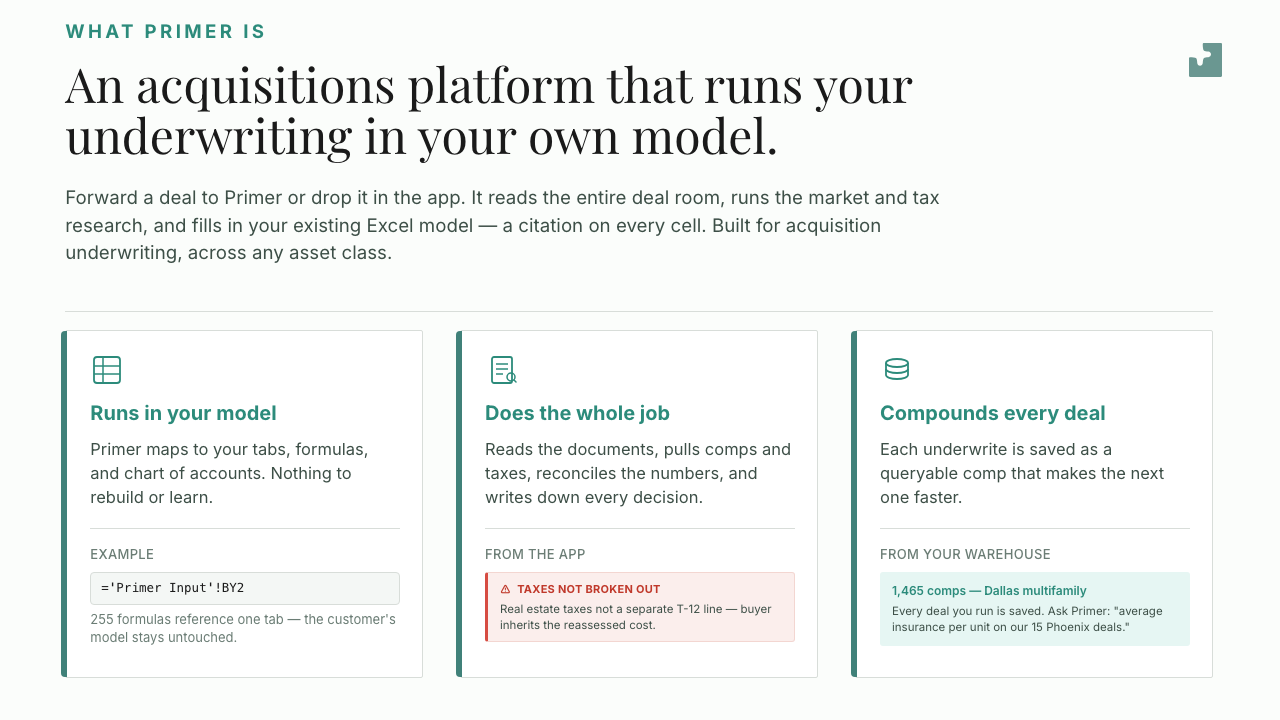
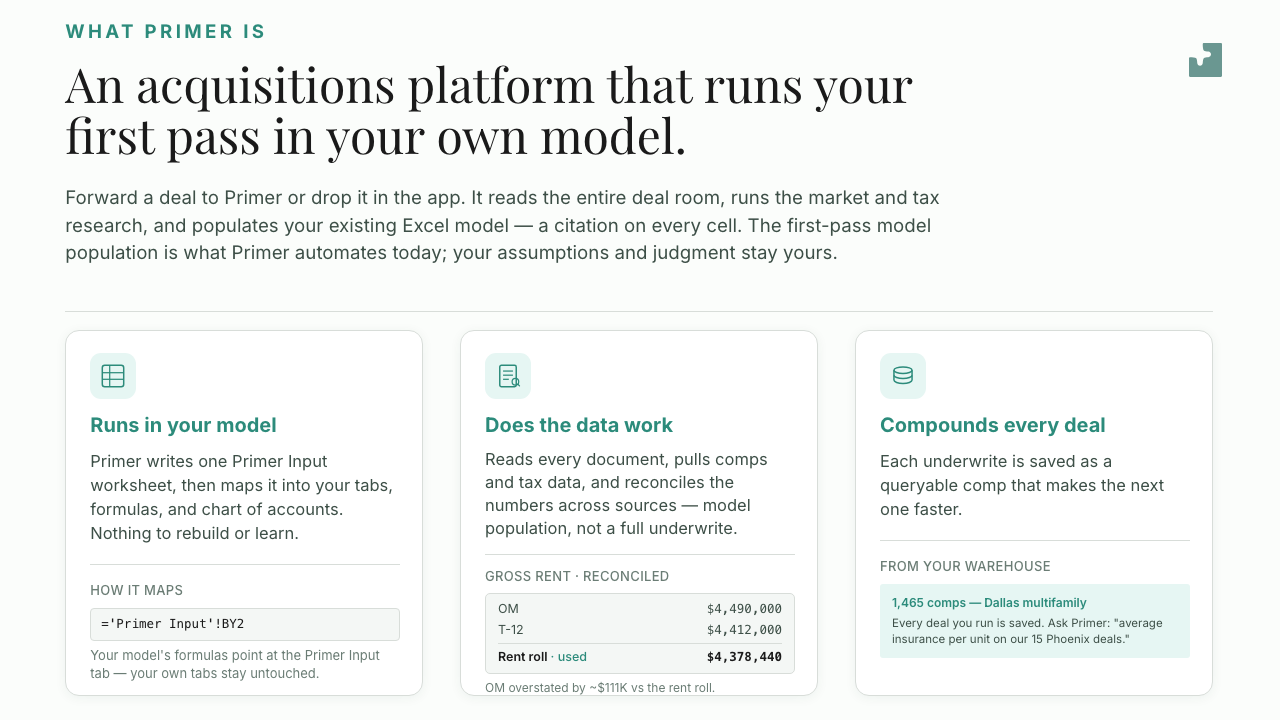
Tighten copy + clean up A1, B1, B3
A1 — scope it as the first pass, not a full underwrite. Headline now "runs your
first pass in your own model"; the sub says Primer automates the first-pass model
population and your judgment stays yours. Cards lose the green left stripe for a
cleaner container with a teal icon tile. Card 1 drops the hard-coded "255
formulas" and reframes around the Primer Input worksheet that maps to your tabs.
Card 2 ("Does the data work") swaps the single anomaly flag for a reconciliation
example (OM vs T-12 vs rent roll) — the data work buyers actually care about.

B1 — Primer is now an elevated white hub, not just another boxed node; removed
the teal nub. Dropped the "never the broker number" pill, changed "Emits" to
"Produces", refreshed the verbs, and redrew the arrows so they run cleanly from
the input cards into Primer and out to the two outputs.

B3 — equal-height input cards, removed the janky gray connector lines (the
numbered bubbles on the spine carry the 1-2-3 flow), and fixed the cited-input-
sheet table that was clipping at the band edge. Added a "reading agent that works
across the whole deal room" framing so Primer reads as cross-document
intelligence. Kept the "never the broker number" key principle.

diff --git a/A1-statement-pillars.html b/A1-statement-pillars.html
@@ -19,72 +19,77 @@
   <div class="b left-[65.3px] top-[18.2px] eyebrow text-[18.7px] tr-179">WHAT PRIMER IS</div>
 
   <!-- Headline -->
-  <h2 class="b left-[65.3px] top-[58px] w-[980px] title text-[48px]">An acquisitions platform that runs your<br>underwriting in your own model.</h2>
+  <h2 class="b left-[65.3px] top-[58px] w-[980px] title text-[48px]">An acquisitions platform that runs your<br>first pass in your own model.</h2>
 
   <!-- Sub -->
-  <p class="b left-[65.3px] top-[184px] w-[900px] text-body text-[18.7px] leading-[1.48]">Forward a deal to Primer or drop it in the app. It reads the entire deal room, runs the market and tax research, and fills in your existing Excel model — a citation on every cell. Built for acquisition underwriting, across any asset class.</p>
+  <p class="b left-[65.3px] top-[184px] w-[940px] text-body text-[18.7px] leading-[1.48]">Forward a deal to Primer or drop it in the app. It reads the entire deal room, runs the market and tax research, and populates your existing Excel model — a citation on every cell. The first-pass model population is what Primer automates today; your assumptions and judgment stay yours.</p>
 
   <!-- Thin rule before pillars -->
   <div class="b left-[65.3px] top-[311px] w-[1148px] h-px bg-line"></div>
 
   <!-- Pillar cards row — 3 equal-width, teal nub motif, line icons -->
   <!-- Card 1: Runs in your model -->
-  <div class="b left-[65.3px] top-[330px] w-[358px] h-[348px] bg-white border border-line rounded-[2px]">
-    <span class="absolute left-[-5.4px] top-0 h-full w-[6.4px] bg-tealbar rounded-l"></span>
+  <div class="b left-[65.3px] top-[330px] w-[358px] h-[366px] bg-white border border-line rounded-[14px] shadow-[0_2px_12px_rgba(25,60,51,0.06)]">
     <div class="pl-[24px] pr-[22px] pt-[22px]">
-      <!-- Icon: spreadsheet/grid -->
-      <svg width="34" height="34" viewBox="0 0 34 34" fill="none" xmlns="http://www.w3.org/2000/svg">
-        <rect x="4" y="4" width="26" height="26" rx="3" stroke="#2C8B7B" stroke-width="1.8"/>
-        <line x1="4" y1="13" x2="30" y2="13" stroke="#2C8B7B" stroke-width="1.5"/>
-        <line x1="4" y1="21" x2="30" y2="21" stroke="#2C8B7B" stroke-width="1.5"/>
-        <line x1="13" y1="4" x2="13" y2="30" stroke="#2C8B7B" stroke-width="1.5"/>
-      </svg>
+      <!-- Icon tile: spreadsheet/grid -->
+      <div class="w-[46px] h-[46px] rounded-[11px] bg-tint flex items-center justify-center">
+        <svg width="28" height="28" viewBox="0 0 34 34" fill="none" xmlns="http://www.w3.org/2000/svg">
+          <rect x="4" y="4" width="26" height="26" rx="3" stroke="#2C8B7B" stroke-width="1.8"/>
+          <line x1="4" y1="13" x2="30" y2="13" stroke="#2C8B7B" stroke-width="1.5"/>
+          <line x1="4" y1="21" x2="30" y2="21" stroke="#2C8B7B" stroke-width="1.5"/>
+          <line x1="13" y1="4" x2="13" y2="30" stroke="#2C8B7B" stroke-width="1.5"/>
+        </svg>
+      </div>
       <div class="mt-[14px] text-[20px] font-bold text-teal leading-tight">Runs in your model</div>
-      <p class="mt-[12px] text-[16.5px] text-body leading-[1.45]">Primer maps to your tabs, formulas, and chart of accounts. Nothing to rebuild or learn.</p>
+      <p class="mt-[12px] text-[16.5px] text-body leading-[1.45]">Primer writes one Primer Input worksheet, then maps it into your tabs, formulas, and chart of accounts. Nothing to rebuild or learn.</p>
       <!-- Proof detail -->
       <div class="mt-[18px] pt-[16px] border-t border-line">
-        <div class="text-[13px] text-muted font-medium mb-[8px] uppercase tracking-wide">Example</div>
+        <div class="text-[13px] text-muted font-medium mb-[8px] uppercase tracking-wide">How it maps</div>
         <div class="text-[12.5px] font-mono bg-[#F4F7F5] text-ink border border-line px-2.5 py-1.5 rounded mb-[6px]">='Primer Input'!BY2</div>
-        <div class="text-[13px] text-muted leading-snug">255 formulas reference one tab — the customer's model stays untouched.</div>
+        <div class="text-[13px] text-muted leading-snug">Your model's formulas point at the Primer Input tab — your own tabs stay untouched.</div>
       </div>
     </div>
   </div>
 
-  <!-- Card 2: Does the whole job -->
-  <div class="b left-[460px] top-[330px] w-[358px] h-[348px] bg-white border border-line rounded-[2px]">
-    <span class="absolute left-[-5.4px] top-0 h-full w-[6.4px] bg-tealbar rounded-l"></span>
+  <!-- Card 2: Does the data work -->
+  <div class="b left-[460px] top-[330px] w-[358px] h-[366px] bg-white border border-line rounded-[14px] shadow-[0_2px_12px_rgba(25,60,51,0.06)]">
     <div class="pl-[24px] pr-[22px] pt-[22px]">
-      <!-- Icon: document stack / reading -->
-      <svg width="34" height="34" viewBox="0 0 34 34" fill="none" xmlns="http://www.w3.org/2000/svg">
-        <rect x="7" y="4" width="20" height="26" rx="2" stroke="#2C8B7B" stroke-width="1.8"/>
-        <line x1="11" y1="11" x2="23" y2="11" stroke="#2C8B7B" stroke-width="1.5"/>
-        <line x1="11" y1="16" x2="23" y2="16" stroke="#2C8B7B" stroke-width="1.5"/>
-        <line x1="11" y1="21" x2="18" y2="21" stroke="#2C8B7B" stroke-width="1.5"/>
-        <circle cx="26" cy="24" r="4" stroke="#2C8B7B" stroke-width="1.5"/>
-        <line x1="29" y1="27" x2="31" y2="29" stroke="#2C8B7B" stroke-width="1.5" stroke-linecap="round"/>
-      </svg>
-      <div class="mt-[14px] text-[20px] font-bold text-teal leading-tight">Does the whole job</div>
-      <p class="mt-[12px] text-[16.5px] text-body leading-[1.45]">Reads the documents, pulls comps and taxes, reconciles the numbers, and writes down every decision.</p>
-      <div class="mt-[18px] pt-[16px] border-t border-line">
-        <div class="text-[13px] text-muted font-medium mb-[8px] uppercase tracking-wide">From the app</div>
-        <div class="bg-riskbg border border-[#F3D6D1] border-l-[3px] border-l-riskline rounded-[3px] px-3 py-2">
-          <div class="flex items-center gap-1.5 text-risk font-bold text-[11px] tracking-wide"><span>⚠</span>TAXES NOT BROKEN OUT</div>
-          <p class="mt-1 text-[11.5px] text-body leading-snug">Real estate taxes not a separate T-12 line — buyer inherits the reassessed cost.</p>
+      <!-- Icon tile: document stack / reading -->
+      <div class="w-[46px] h-[46px] rounded-[11px] bg-tint flex items-center justify-center">
+        <svg width="28" height="28" viewBox="0 0 34 34" fill="none" xmlns="http://www.w3.org/2000/svg">
+          <rect x="7" y="4" width="20" height="26" rx="2" stroke="#2C8B7B" stroke-width="1.8"/>
+          <line x1="11" y1="11" x2="23" y2="11" stroke="#2C8B7B" stroke-width="1.5"/>
+          <line x1="11" y1="16" x2="23" y2="16" stroke="#2C8B7B" stroke-width="1.5"/>
+          <line x1="11" y1="21" x2="18" y2="21" stroke="#2C8B7B" stroke-width="1.5"/>
+          <circle cx="26" cy="24" r="4" stroke="#2C8B7B" stroke-width="1.5"/>
+          <line x1="29" y1="27" x2="31" y2="29" stroke="#2C8B7B" stroke-width="1.5" stroke-linecap="round"/>
+        </svg>
+      </div>
+      <div class="mt-[14px] text-[20px] font-bold text-teal leading-tight">Does the data work</div>
+      <p class="mt-[10px] text-[16.5px] text-body leading-[1.4]">Reads every document, pulls comps and tax data, and reconciles the numbers across sources — model population, not a full underwrite.</p>
+      <div class="mt-[14px] pt-[12px] border-t border-line">
+        <div class="text-[13px] text-muted font-medium mb-[6px] uppercase tracking-wide">Gross rent · reconciled</div>
+        <div class="bg-[#F4F7F5] border border-line rounded-[5px] px-3 py-1.5 text-[12.5px]">
+          <div class="flex justify-between text-body"><span>OM</span><span class="font-mono">$4,490,000</span></div>
+          <div class="flex justify-between text-body mt-[2px]"><span>T-12</span><span class="font-mono">$4,412,000</span></div>
+          <div class="flex justify-between items-center text-ink font-semibold mt-[4px] pt-[4px] border-t border-line"><span>Rent roll <span class="text-teal font-medium">· used</span></span><span class="font-mono">$4,378,440</span></div>
         </div>
+        <div class="text-[12px] text-muted leading-snug mt-[6px]">OM overstated by ~$111K vs the rent roll.</div>
       </div>
     </div>
   </div>
 
   <!-- Card 3: Compounds every deal -->
-  <div class="b left-[855px] top-[330px] w-[358px] h-[348px] bg-white border border-line rounded-[2px]">
-    <span class="absolute left-[-5.4px] top-0 h-full w-[6.4px] bg-tealbar rounded-l"></span>
+  <div class="b left-[855px] top-[330px] w-[358px] h-[366px] bg-white border border-line rounded-[14px] shadow-[0_2px_12px_rgba(25,60,51,0.06)]">
     <div class="pl-[24px] pr-[22px] pt-[22px]">
-      <!-- Icon: stacked layers / database -->
-      <svg width="34" height="34" viewBox="0 0 34 34" fill="none" xmlns="http://www.w3.org/2000/svg">
-        <ellipse cx="17" cy="10" rx="11" ry="4" stroke="#2C8B7B" stroke-width="1.8"/>
-        <path d="M6 10v6c0 2.21 4.93 4 11 4s11-1.79 11-4v-6" stroke="#2C8B7B" stroke-width="1.8"/>
-        <path d="M6 16v6c0 2.21 4.93 4 11 4s11-1.79 11-4v-6" stroke="#2C8B7B" stroke-width="1.8"/>
-      </svg>
+      <!-- Icon tile: stacked layers / database -->
+      <div class="w-[46px] h-[46px] rounded-[11px] bg-tint flex items-center justify-center">
+        <svg width="28" height="28" viewBox="0 0 34 34" fill="none" xmlns="http://www.w3.org/2000/svg">
+          <ellipse cx="17" cy="10" rx="11" ry="4" stroke="#2C8B7B" stroke-width="1.8"/>
+          <path d="M6 10v6c0 2.21 4.93 4 11 4s11-1.79 11-4v-6" stroke="#2C8B7B" stroke-width="1.8"/>
+          <path d="M6 16v6c0 2.21 4.93 4 11 4s11-1.79 11-4v-6" stroke="#2C8B7B" stroke-width="1.8"/>
+        </svg>
+      </div>
       <div class="mt-[14px] text-[20px] font-bold text-teal leading-tight">Compounds every deal</div>
       <p class="mt-[12px] text-[16.5px] text-body leading-[1.45]">Each underwrite is saved as a queryable comp that makes the next one faster.</p>
       <div class="mt-[18px] pt-[16px] border-t border-line">

diff --git a/B1-three-column-flow.html b/B1-three-column-flow.html
@@ -39,63 +39,53 @@
     <div class="mt-1 text-[11.5px] text-muted leading-snug">rent &amp; sales comps · tax /<br>assessor records · market data</div>
   </div>
 
-  <!-- ── SVG ARROWS: inputs → primer ──────────────────────────── -->
+  <!-- ── SVG ARROWS: inputs → primer → outputs ────────────────── -->
   <svg class="b left-0 top-0 w-full h-full" style="pointer-events:none" xmlns="http://www.w3.org/2000/svg">
-    <!-- Arrow from Deal documents (right edge ~289px, midY ~249px) to Primer left (~487px, midY ~377px) -->
     <defs>
       <marker id="arrowTeal" markerWidth="9" markerHeight="7" refX="8" refY="3.5" orient="auto">
         <polygon points="0 0, 9 3.5, 0 7" fill="#2C8B7B"/>
       </marker>
-      <marker id="arrowTealLight" markerWidth="9" markerHeight="7" refX="8" refY="3.5" orient="auto">
-        <polygon points="0 0, 9 3.5, 0 7" fill="#2C8B7B" opacity="0.5"/>
-      </marker>
     </defs>
-    <!-- Deal docs → Primer center -->
-    <path d="M 289 249 C 370 249 410 377 487 377" stroke="#2C8B7B" stroke-width="1.8" fill="none" marker-end="url(#arrowTeal)" opacity="0.85"/>
-    <!-- Research agents → Primer center -->
-    <path d="M 289 397 C 370 397 410 377 487 377" stroke="#2C8B7B" stroke-width="1.8" fill="none" marker-end="url(#arrowTeal)" opacity="0.85"/>
-    <!-- Primer → cited input sheet → outputs -->
-    <!-- Primer right edge ~793px → cited input sheet → Output nodes -->
-    <!-- Arrow to Your Excel model (upper right) -->
-    <path d="M 879 377 C 920 377 940 298 970 298" stroke="#2C8B7B" stroke-width="1.8" fill="none" marker-end="url(#arrowTeal)" opacity="0.85"/>
-    <!-- Arrow to Your data warehouse (lower right) -->
-    <path d="M 879 377 C 920 377 940 466 970 466" stroke="#2C8B7B" stroke-width="1.8" fill="none" marker-end="url(#arrowTeal)" opacity="0.85"/>
+    <!-- Deal docs (right edge 289, y≈243) → Primer left-center (468, 310) -->
+    <path d="M 289 243 C 380 243 395 310 466 310" stroke="#2C8B7B" stroke-width="1.8" fill="none" marker-end="url(#arrowTeal)" opacity="0.9"/>
+    <!-- Research agents (right edge 289, y≈394) → Primer left-center (468, 310) -->
+    <path d="M 289 394 C 380 394 395 310 466 310" stroke="#2C8B7B" stroke-width="1.8" fill="none" marker-end="url(#arrowTeal)" opacity="0.9"/>
+    <!-- Primer right-center (812, 310) → Your Excel model (970, 286) -->
+    <path d="M 814 310 C 895 310 905 286 968 286" stroke="#2C8B7B" stroke-width="1.8" fill="none" marker-end="url(#arrowTeal)" opacity="0.9"/>
+    <!-- Primer right-center (812, 310) → Your data warehouse (970, 454) -->
+    <path d="M 814 310 C 895 310 905 454 968 454" stroke="#2C8B7B" stroke-width="1.8" fill="none" marker-end="url(#arrowTeal)" opacity="0.9"/>
   </svg>
 
-  <!-- ── PRIMER NODE (center, large) ──────────────────────────── -->
-  <div class="b left-[487px] top-[220px] w-[306px] bg-white border-2 border-teal rounded-xl shadow-md overflow-hidden">
-    <!-- Teal nub motif -->
-    <span class="absolute left-0 top-0 h-full w-[5px] bg-tealbar rounded-l"></span>
-    <div class="pl-5 pr-4 pt-4 pb-4">
-      <div class="text-[15.5px] font-bold text-teal leading-tight mb-2.5">Primer</div>
-      <div class="space-y-2">
+  <!-- ── PRIMER NODE (center hub — elevated, no nub) ───────────── -->
+  <div class="b left-[468px] top-[210px] w-[344px] bg-white border border-teal/40 rounded-2xl shadow-[0_8px_28px_rgba(25,60,51,0.14)] overflow-hidden" style="height:200px;">
+    <div class="px-5 pt-4 pb-3">
+      <div class="flex items-center gap-2 mb-3">
+        <span class="w-[9px] h-[9px] rounded-full bg-teal flex-shrink-0"></span>
+        <div class="text-[16.5px] font-bold text-teal leading-none">Primer</div>
+      </div>
+      <div class="space-y-[8px]">
         <div class="flex items-start gap-2">
-          <span class="mt-[3px] w-[7px] h-[7px] rounded-full bg-teal flex-shrink-0"></span>
+          <span class="mt-[5px] w-[6px] h-[6px] rounded-full bg-teal flex-shrink-0"></span>
           <div class="text-[12.5px] text-body leading-snug">Reads every document and source</div>
         </div>
         <div class="flex items-start gap-2">
-          <span class="mt-[3px] w-[7px] h-[7px] rounded-full bg-teal flex-shrink-0"></span>
+          <span class="mt-[5px] w-[6px] h-[6px] rounded-full bg-teal flex-shrink-0"></span>
           <div class="text-[12.5px] text-body leading-snug">Reconciles conflicts across sources</div>
         </div>
         <div class="flex items-start gap-2">
-          <span class="mt-[3px] w-[7px] h-[7px] rounded-full bg-teal flex-shrink-0"></span>
-          <div class="text-[12.5px] text-body leading-snug">Validates the numbers and flags anomalies</div>
+          <span class="mt-[5px] w-[6px] h-[6px] rounded-full bg-teal flex-shrink-0"></span>
+          <div class="text-[12.5px] text-body leading-snug">Validates the numbers, flags anomalies</div>
         </div>
         <div class="flex items-start gap-2">
-          <span class="mt-[3px] w-[7px] h-[7px] rounded-full bg-teal flex-shrink-0"></span>
-          <div class="text-[12.5px] text-body leading-snug">Writes a structured, cited input sheet</div>
+          <span class="mt-[5px] w-[6px] h-[6px] rounded-full bg-teal flex-shrink-0"></span>
+          <div class="text-[12.5px] text-body leading-snug">Maps it into your model, cell by cell</div>
         </div>
       </div>
-      <!-- "never the broker number" callout pill -->
-      <div class="mt-3.5 inline-flex items-center gap-1.5 bg-tint border border-teal/30 rounded-full px-3 py-1">
-        <svg width="10" height="10" viewBox="0 0 10 10" fill="none"><circle cx="5" cy="5" r="4.5" stroke="#2C8B7B" stroke-width="1"/><path d="M5 3v2.5" stroke="#2C8B7B" stroke-width="1.2" stroke-linecap="round"/><circle cx="5" cy="7.2" r=".6" fill="#2C8B7B"/></svg>
-        <span class="text-[11px] font-semibold text-teal">never the broker number</span>
-      </div>
     </div>
-    <!-- Cited input sheet label at bottom of Primer -->
-    <div class="border-t border-teal/20 bg-tint px-5 py-2.5">
-      <div class="text-[11px] font-bold text-teal tr-107 uppercase">Emits: cited input sheet</div>
-      <div class="text-[11px] text-muted mt-0.5">every cell traced to source document</div>
+    <!-- Output artifact label -->
+    <div class="border-t border-line bg-tint px-5 py-2.5">
+      <div class="text-[11px] font-bold text-teal tr-107 uppercase">Produces — cited input sheet</div>
+      <div class="text-[10.5px] text-muted mt-0.5">every cell traced to its source document</div>
     </div>
   </div>
 

diff --git a/B3-numbered-flow.html b/B3-numbered-flow.html
@@ -38,7 +38,7 @@
 
   <!-- Two input cards side by side -->
   <!-- Card: Deal documents -->
-  <div class="b left-[152px] top-[196px] w-[272px] bg-white border border-line rounded-[2px] px-4 py-3 shadow-sm">
+  <div class="b left-[152px] top-[196px] w-[272px] h-[76px] bg-white border border-line rounded-[2px] px-4 shadow-sm flex items-center">
     <span class="absolute left-0 top-0 h-full w-[5px] bg-tealbar rounded-l"></span>
     <div class="pl-1">
       <div class="text-[14px] font-bold text-ink">Deal documents</div>
@@ -47,7 +47,7 @@
   </div>
 
   <!-- Card: Research agents -->
-  <div class="b left-[442px] top-[196px] w-[272px] bg-white border border-line rounded-[2px] px-4 py-3 shadow-sm">
+  <div class="b left-[442px] top-[196px] w-[272px] h-[76px] bg-white border border-line rounded-[2px] px-4 shadow-sm flex items-center">
     <span class="absolute left-0 top-0 h-full w-[5px] bg-tealbar rounded-l"></span>
     <div class="pl-1">
       <div class="text-[14px] font-bold text-ink">Research agents</div>
@@ -55,42 +55,29 @@
     </div>
   </div>
 
-  <!-- ── CONNECTOR: Layer 1 → Layer 2 ─────────────────────── -->
-  <svg class="b left-0 top-0 w-full h-full" style="pointer-events:none" xmlns="http://www.w3.org/2000/svg">
-    <defs>
-      <marker id="arr3" markerWidth="9" markerHeight="7" refX="8" refY="3.5" orient="auto">
-        <polygon points="0 0, 9 3.5, 0 7" fill="#2C8B7B"/>
-      </marker>
-    </defs>
-    <!-- Down arrows between layers, centered at the spine x=115 -->
-    <line x1="115" y1="280" x2="115" y2="318" stroke="#2C8B7B" stroke-width="2" marker-end="url(#arr3)"/>
-    <!-- Horizontal connectors from cards to spine for layer 1 -->
-    <line x1="152" y1="240" x2="115" y2="278" stroke="#D8DDD9" stroke-width="1.2"/>
-    <line x1="442" y1="240" x2="115" y2="278" stroke="#D8DDD9" stroke-width="1.2"/>
-    <!-- Down arrow between layer 2 and layer 3 -->
-    <line x1="115" y1="508" x2="115" y2="524" stroke="#2C8B7B" stroke-width="2" marker-end="url(#arr3)"/>
-  </svg>
+  <!-- Flow is carried by the numbered bubbles on the gradient spine; no extra arrows needed. -->
 
   <!-- ── LAYER 2: PRIMER ────────────────────────────────────── -->
   <!-- Layer 2 full-width block (big, teal-bordered) -->
-  <div class="b left-[152px] top-[330px] w-[1060px] bg-tint border border-teal/40 rounded-[4px] overflow-hidden" style="height:170px;">
+  <div class="b left-[152px] top-[330px] w-[1060px] bg-tint border border-teal/40 rounded-[4px] overflow-hidden" style="height:192px;">
     <span class="absolute left-0 top-0 h-full w-[6px] bg-teal rounded-l"></span>
     <div class="pl-6 pr-8 pt-4 pb-4 h-full flex items-start gap-0">
       <!-- Left: Primer title + verbs -->
-      <div class="flex-shrink-0 w-[300px]">
+      <div class="flex-shrink-0 w-[320px]">
         <div class="text-[17px] font-bold text-teal">Primer</div>
-        <div class="mt-2.5 space-y-1.5">
-          <div class="flex items-center gap-2">
-            <svg width="14" height="14" viewBox="0 0 14 14" fill="none"><circle cx="7" cy="7" r="6.5" stroke="#2C8B7B" stroke-width="1.2"/><path d="M4 7l2.2 2.2 3.8-4" stroke="#2C8B7B" stroke-width="1.4" stroke-linecap="round" stroke-linejoin="round"/></svg>
-            <span class="text-[13px] font-semibold text-body">Reads every document and source</span>
+        <div class="text-[11.5px] text-muted mt-0.5 mb-2.5 leading-snug">A reading agent that works across the whole deal room.</div>
+        <div class="space-y-2">
+          <div class="flex items-start gap-2">
+            <svg width="14" height="14" viewBox="0 0 14 14" fill="none" class="flex-shrink-0 mt-[2px]"><circle cx="7" cy="7" r="6.5" stroke="#2C8B7B" stroke-width="1.2"/><path d="M4 7l2.2 2.2 3.8-4" stroke="#2C8B7B" stroke-width="1.4" stroke-linecap="round" stroke-linejoin="round"/></svg>
+            <span class="text-[13px] font-semibold text-body leading-snug">Reads across every document and source</span>
           </div>
-          <div class="flex items-center gap-2">
-            <svg width="14" height="14" viewBox="0 0 14 14" fill="none"><circle cx="7" cy="7" r="6.5" stroke="#2C8B7B" stroke-width="1.2"/><path d="M4 7l2.2 2.2 3.8-4" stroke="#2C8B7B" stroke-width="1.4" stroke-linecap="round" stroke-linejoin="round"/></svg>
-            <span class="text-[13px] font-semibold text-body">Reconciles conflicts across sources</span>
+          <div class="flex items-start gap-2">
+            <svg width="14" height="14" viewBox="0 0 14 14" fill="none" class="flex-shrink-0 mt-[2px]"><circle cx="7" cy="7" r="6.5" stroke="#2C8B7B" stroke-width="1.2"/><path d="M4 7l2.2 2.2 3.8-4" stroke="#2C8B7B" stroke-width="1.4" stroke-linecap="round" stroke-linejoin="round"/></svg>
+            <span class="text-[13px] font-semibold text-body leading-snug">Connects what no single doc states on its own</span>
           </div>
-          <div class="flex items-center gap-2">
-            <svg width="14" height="14" viewBox="0 0 14 14" fill="none"><circle cx="7" cy="7" r="6.5" stroke="#2C8B7B" stroke-width="1.2"/><path d="M4 7l2.2 2.2 3.8-4" stroke="#2C8B7B" stroke-width="1.4" stroke-linecap="round" stroke-linejoin="round"/></svg>
-            <span class="text-[13px] font-semibold text-body">Validates the numbers and flags anomalies</span>
+          <div class="flex items-start gap-2">
+            <svg width="14" height="14" viewBox="0 0 14 14" fill="none" class="flex-shrink-0 mt-[2px]"><circle cx="7" cy="7" r="6.5" stroke="#2C8B7B" stroke-width="1.2"/><path d="M4 7l2.2 2.2 3.8-4" stroke="#2C8B7B" stroke-width="1.4" stroke-linecap="round" stroke-linejoin="round"/></svg>
+            <span class="text-[13px] font-semibold text-body leading-snug">Reconciles conflicts, validates, flags anomalies</span>
           </div>
         </div>
       </div>